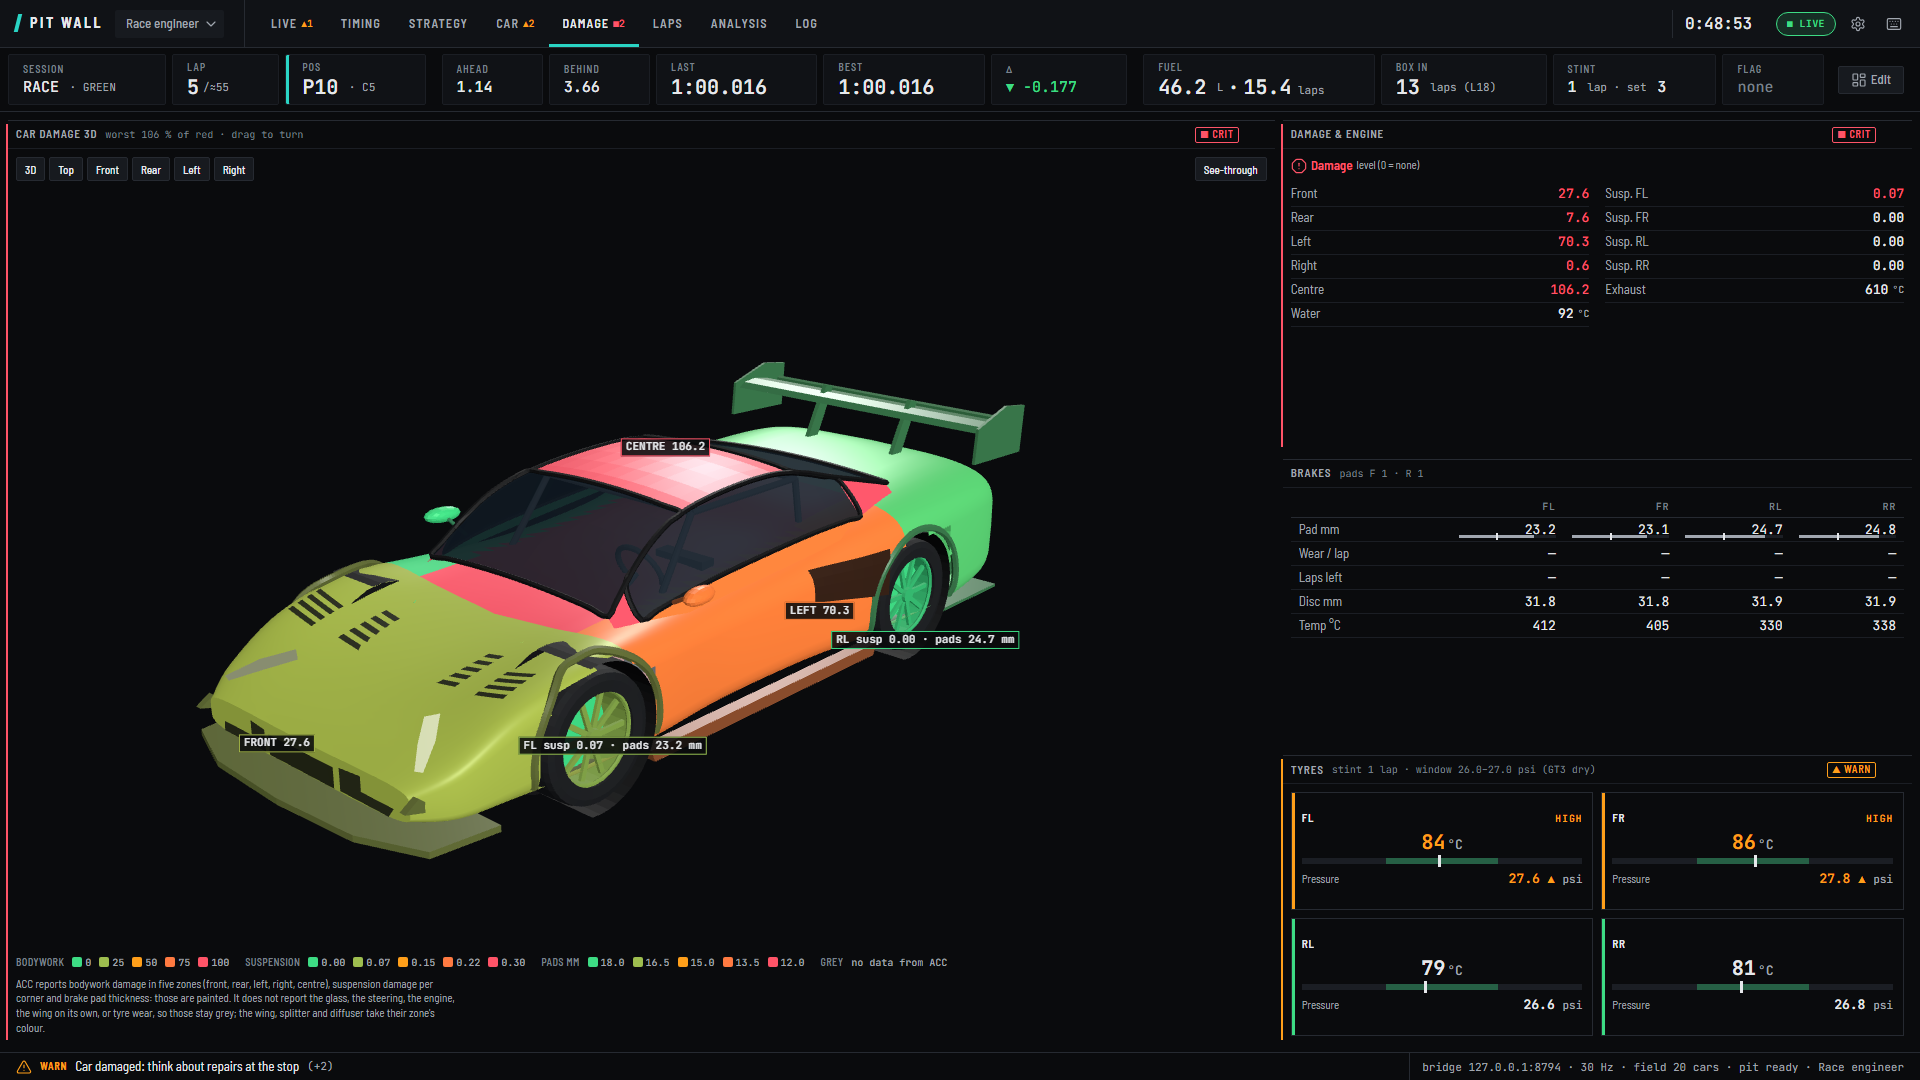
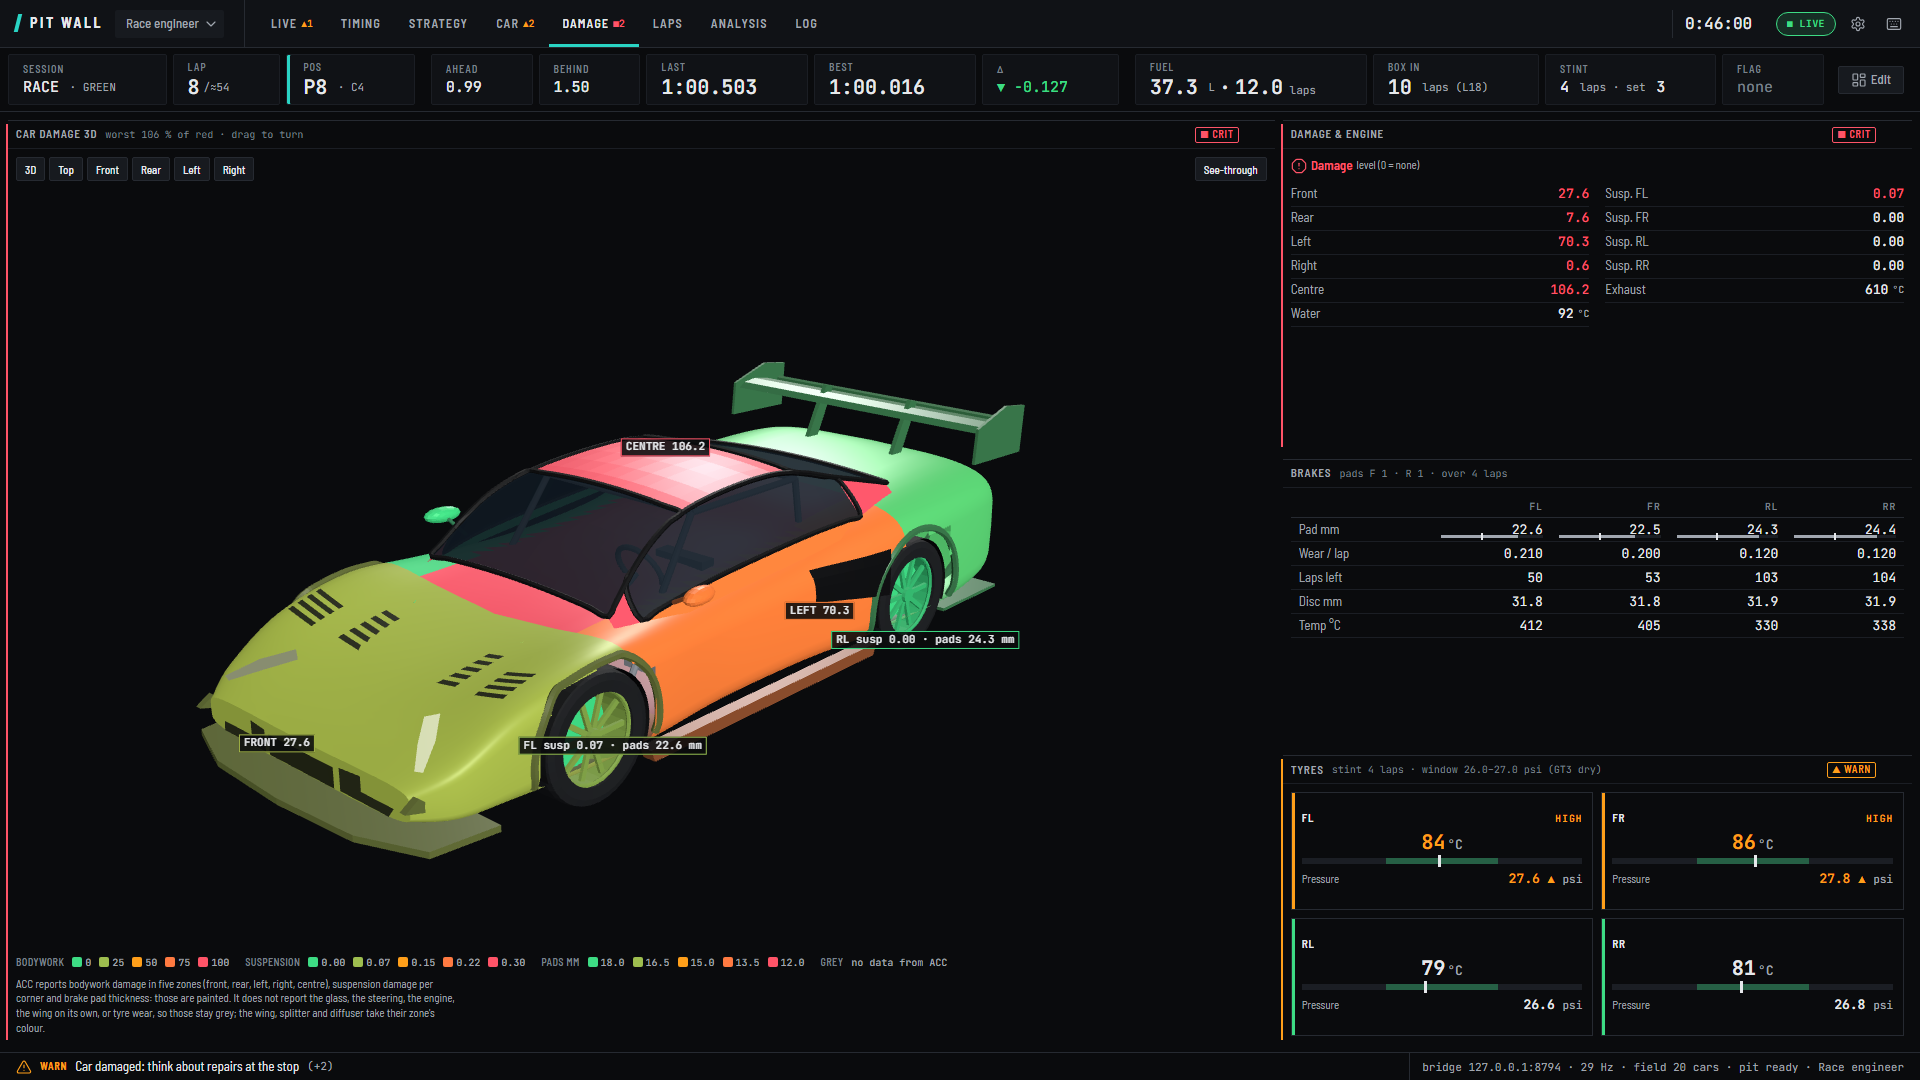
Car damage 3D: a black side intake, arch lips on the opening's edge, wells inside the fenders
The intake behind the door was a "vent" (the door's colour darkened), so it read as a brown
patch, and it lay so close to the body that the two fought over pixels along its top edge.
It is now black, like an opening, and stands clear of the surface. The arch lips follow the
opening as it is cut (round below, flat under the fender's shoulder) instead of a full circle
that rose above the fender, and the wheel wells hug the tyres so they no longer show through
the fenders behind the front wheels. Checked from twelve angles.

diff --git a/web/js/car3d.js b/web/js/car3d.js
@@ -107,10 +107,10 @@ const CAR3D = {
     // ---- wheel arches: a lip round each opening and a dark well inside ----
     for (const ax of AX) both(s => {
       const lip = [];
-      for (let k = 0; k <= 24; k++) { const a = -.25 + (Math.PI + .5) * k / 24, x = ax + (AR + .005) * Math.cos(a), z = .34 + (AR + .005) * Math.sin(a); const zc = Math.min(z, secAt(x)[3] - .05); lip.push([x, s * (sideY(x, zc) - .004), zc]); }   // never above the fender
+      for (let k = 0; k <= 24; k++) { const a = -.25 + (Math.PI + .5) * k / 24, x = ax + (AR + .005) * Math.cos(a), z = .34 + (AR + .005) * Math.sin(a); const zc = Math.min(z, secAt(x)[3] - .09); lip.push([x, s * (sideY(x, zc) - .004), zc]); }   // the opening's edge: round below, flat under the fender's shoulder
       tube('shell', lip, .022, false, ax > 0 ? 'front' : 'rear', 'carbon');
-      geo('inner', new T.CylinderGeometry(.395, .395, .36, 24, 1, true, Math.PI * .95, Math.PI * 1.1), M(ax, s * .82, .34), 'well', 'well');   // the drum over the wheel, inside the fender
-      geo('inner', new T.CircleGeometry(.395, 24), M(ax, s * .64, .34, Math.PI / 2), 'well', 'well');
+      geo('inner', new T.CylinderGeometry(.355, .355, .32, 28, 1, true, -Math.PI * .6, Math.PI * 1.2), M(ax, s * .83, .34), 'well', 'well');   // the drum over the wheel's top, just clear of the tyre and under the fender
+      geo('inner', new T.CircleGeometry(.355, 28), M(ax, s * .67, .34, Math.PI / 2), 'well', 'well');
     });
     // ---- the cabin: a teardrop canopy; windscreen, side windows and rear window are glass in black frames ----
     const CK = smooth([[0.98, .74, .76, .68, .78], [0.62, .79, .78, .62, 1.05], [0.20, .81, .81, .57, 1.17], [-0.50, .83, .86, .56, 1.19], [-1.00, .82, .90, .62, 1.07],
@@ -157,9 +157,9 @@ const CAR3D = {
       for (let j = 0; j < N; j++) { const ya = y0 + (y1 - y0) * j / N, yb = y0 + (y1 - y0) * (j + 1) / N, P = (x, y) => [x, y, topZ(x, y) + .006];
         quad('shell', P(x0, ya), P(x1, ya), P(x1, yb), P(x0, yb), part, kind); }
     };
-    const onSide = (s, x0, x1, zlo, zhi, part, kind, N = 8) => {   // a patch on the side surface: x0..x1, from zlo(t) to zhi(t) along it
+    const onSide = (s, x0, x1, zlo, zhi, part, kind, N = 16) => {   // a patch on the side surface: x0..x1, from zlo(t) to zhi(t) along it
       for (let j = 0; j < N; j++) for (let i = 0; i < 4; i++) {
-        const P = (tj, ti) => { const x = x0 + (x1 - x0) * tj, z = zlo(tj) + (zhi(tj) - zlo(tj)) * ti; return [x, s * (sideY(x, z) + .006), z]; };
+        const P = (tj, ti) => { const x = x0 + (x1 - x0) * tj, z = zlo(tj) + (zhi(tj) - zlo(tj)) * ti; return [x, s * (sideY(x, z) + .012), z]; };   // clear of the body, so the two never fight over a pixel
         const q = [P(j / N, i / 4), P((j + 1) / N, i / 4), P((j + 1) / N, (i + 1) / 4), P(j / N, (i + 1) / 4)];
         quad('shell', ...(s > 0 ? q : q.reverse()), part, kind);
       }
@@ -167,7 +167,7 @@ const CAR3D = {
     for (let k = 0; k < 5; k++) both(s => { const x = 1.48 + k * .07; onTop(x, x + .035, s * .14, s * .46, 'front', 'vent'); });   // hood louvres
     for (let k = 0; k < 4; k++) both(s => { const x = 1.62 + k * .06; onTop(x, x + .03, s * .64, s * .84, 'front', 'vent'); });   // fender louvres
     both(s => {   // the intake behind the door (a scoop narrowing forward), and the side skirt
-      onSide(s, -.40, -1.02, t => .44 + .10 * (1 - t), t => .72, sideOf(s), 'vent');
+      onSide(s, -.40, -1.02, t => .44 + .10 * (1 - t), t => .72, sideOf(s), 'well');   // black, like a real intake: it is a hole, not paint
       plate('shell', [[-.95, .07], [.95, .07], [.98, .14], [-.98, .14]], s > 0 ? .90 : -.98, .08, sideOf(s), 'carbon');
     });
     both(s => {   // mirrors: a pod on a stalk from the door top
